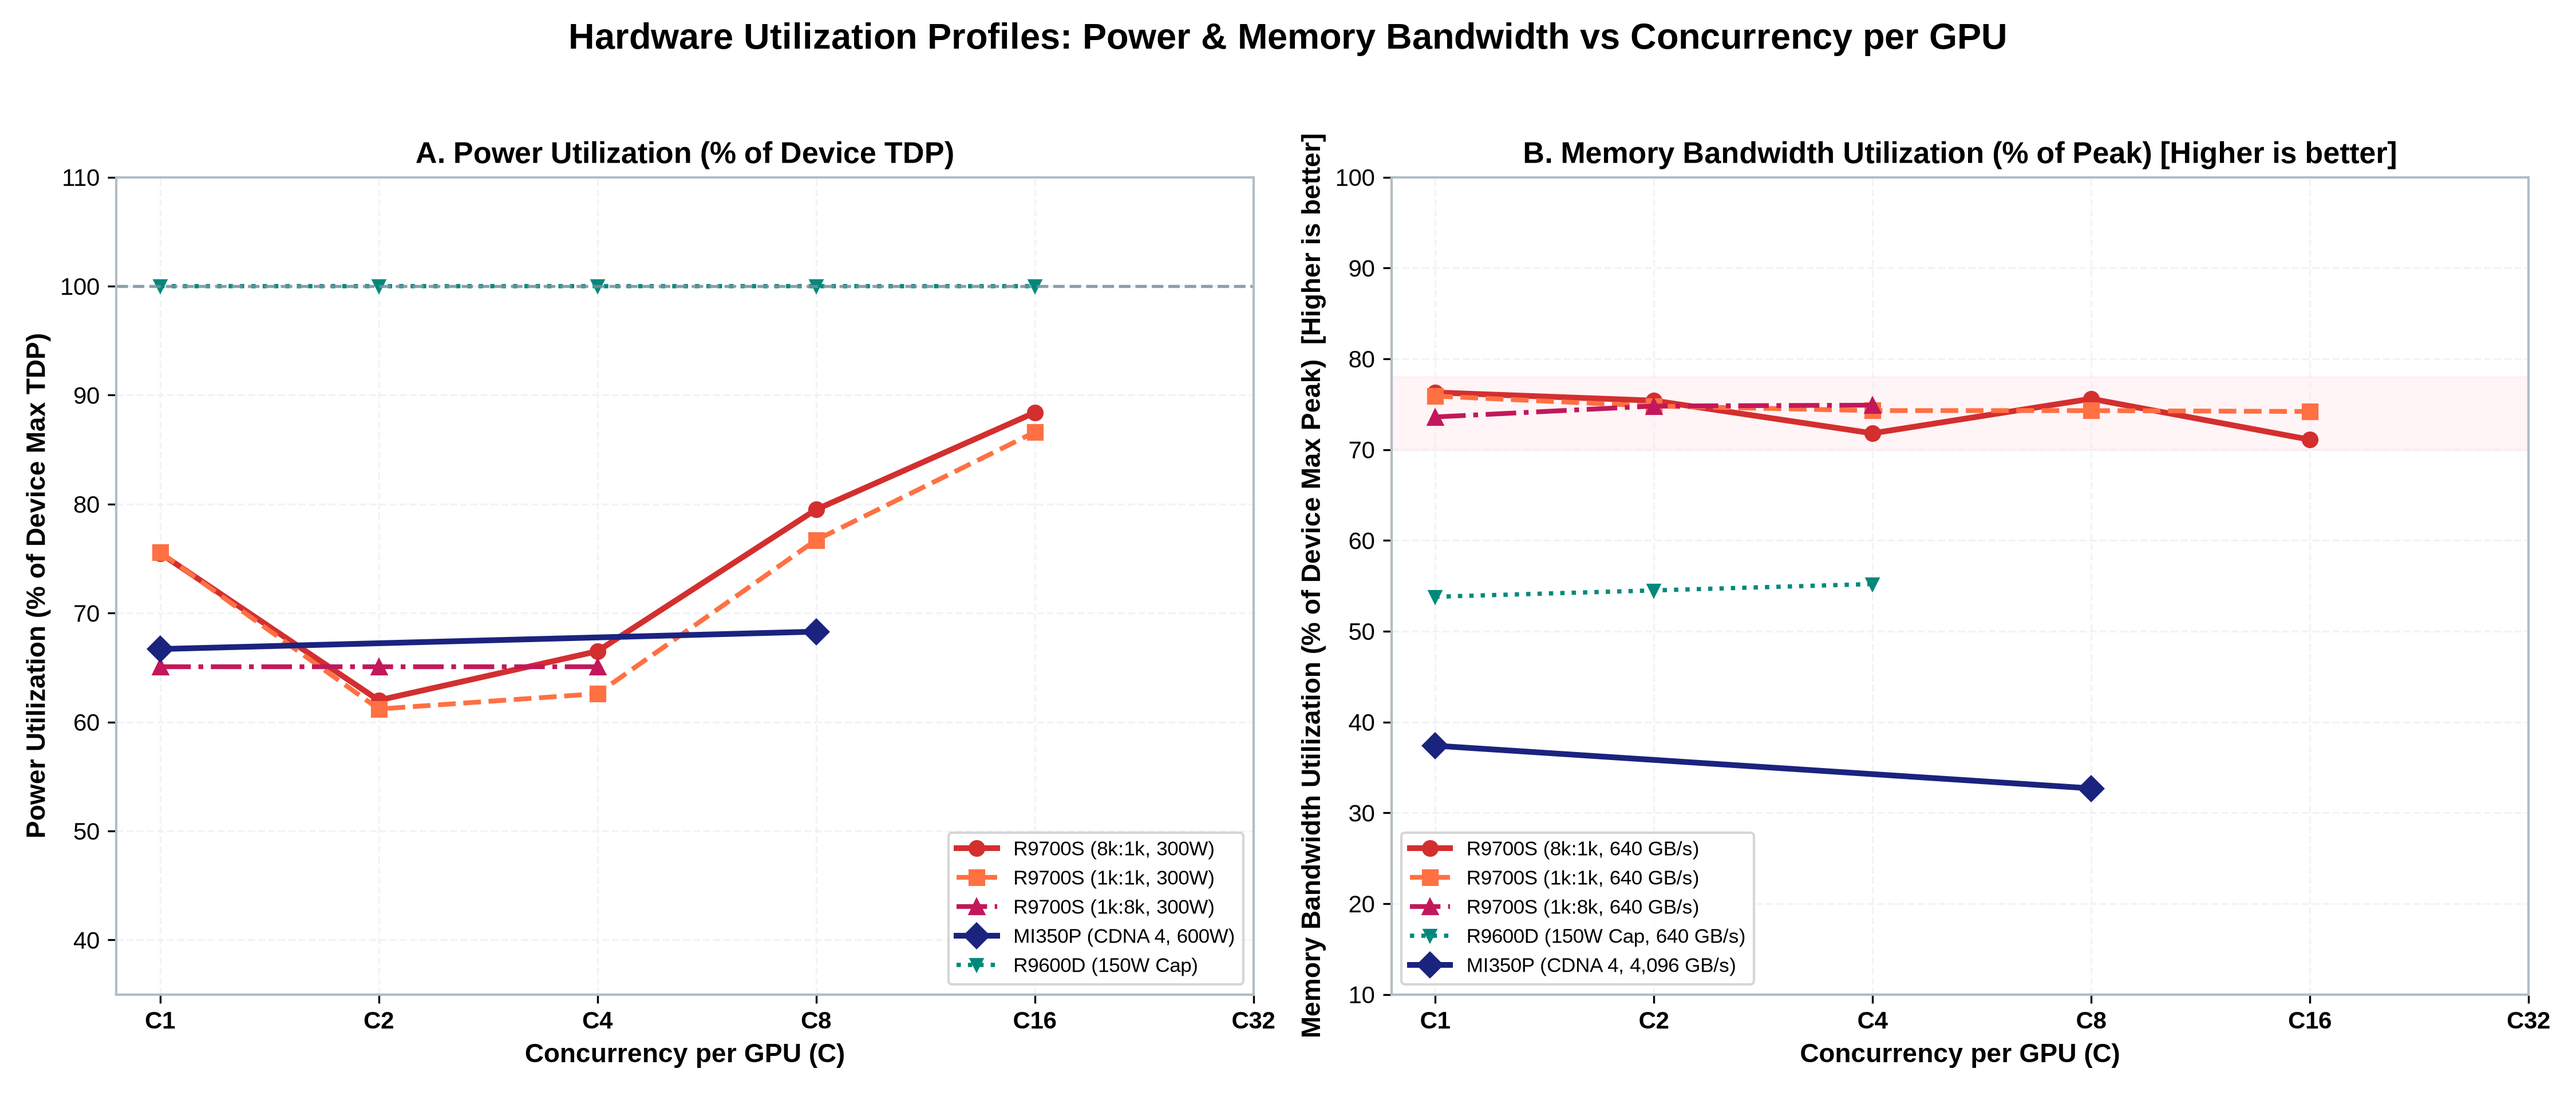
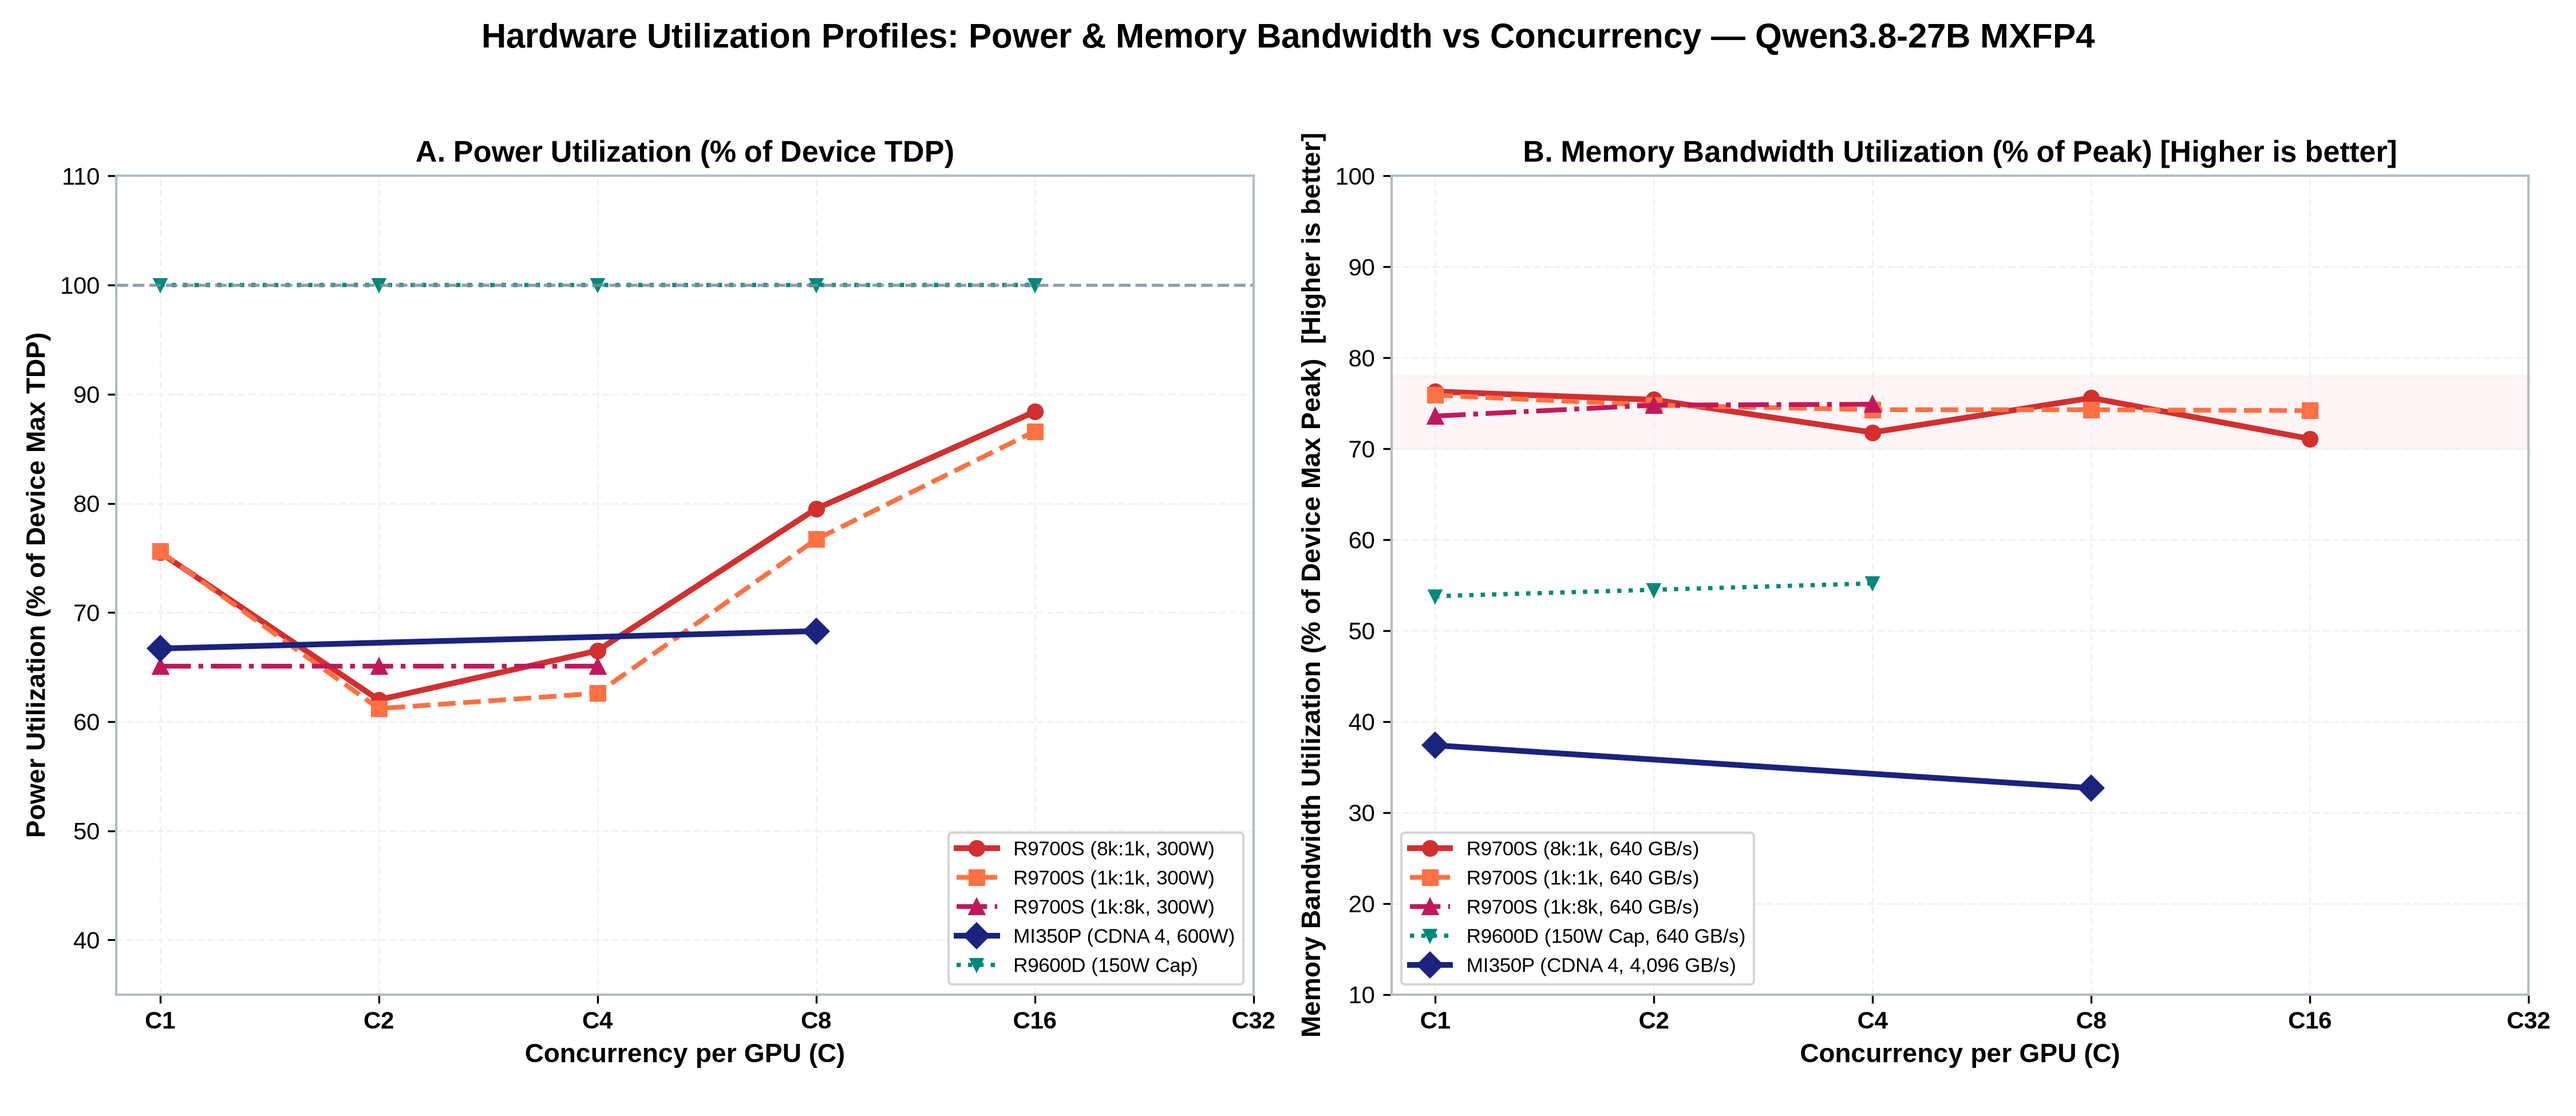
feat(plots): add Qwen3.8-27B MXFP4 model identifier to all TCO plot titles

diff --git a/scripts/generate_tco_plots.py b/scripts/generate_tco_plots.py
@@ -74,7 +74,7 @@ def plot_capex_and_tco():
     
     ax.set_xlabel("Server Architecture & Hardware Fill", fontsize=13, fontweight='bold', labelpad=12)
     ax.set_ylabel("Total Cost ($ in Thousands)", fontsize=13, fontweight='bold', labelpad=10)
-    ax.set_title("Server Fill Capex & 3-Year TCO Comparison (Qwen3.8-27B Serving)", fontsize=15, fontweight='bold', pad=15)
+    ax.set_title("Server Fill Capex & 3-Year TCO Comparison (Qwen3.8-27B MXFP4 Serving)", fontsize=14, fontweight='bold', pad=15)
     ax.set_xticks(x)
     ax.set_xticklabels(systems, fontsize=12, fontweight='bold')
     ax.set_ylim(0, 275)
@@ -149,7 +149,7 @@ def plot_cost_8k_1k():
     ax.set_xticklabels(["C1", "C2", "C4", "C8", "C16", "C32"], fontsize=12, fontweight='bold')
     ax.set_xlabel("Concurrency per GPU (C)", fontsize=13, fontweight='bold', labelpad=8)
     ax.set_ylabel("Serving Cost ($ / Million Output Tokens)  [Lower is better]", fontsize=12.5, fontweight='bold', labelpad=8)
-    ax.set_title("Serving Cost vs Concurrency: Long Context (8,192 In / 1,024 Out)", fontsize=15, fontweight='bold', pad=15)
+    ax.set_title("Serving Cost vs Concurrency: Long Context (8,192 In / 1,024 Out) — Qwen3.8-27B MXFP4", fontsize=13.5, fontweight='bold', pad=15)
     ax.set_ylim(0, 8.2)
     ax.set_xlim(0.8, 36)
     ax.grid(True, which='both', linestyle='--', alpha=0.7)
@@ -208,7 +208,7 @@ def plot_cost_1k_1k():
     ax.set_xticklabels(["C1", "C2", "C4", "C8", "C16", "C32"], fontsize=12, fontweight='bold')
     ax.set_xlabel("Concurrency per GPU (C)", fontsize=13, fontweight='bold', labelpad=8)
     ax.set_ylabel("Serving Cost ($ / Million Output Tokens)  [Lower is better]", fontsize=12.5, fontweight='bold', labelpad=8)
-    ax.set_title("Serving Cost vs Concurrency: Standard Workload (1,024 In / 1,024 Out)", fontsize=15, fontweight='bold', pad=15)
+    ax.set_title("Serving Cost vs Concurrency: Standard Workload (1,024 In / 1,024 Out) — Qwen3.8-27B MXFP4", fontsize=13.5, fontweight='bold', pad=15)
     ax.set_ylim(0, 4.2)
     ax.set_xlim(0.8, 36)
     ax.grid(True, which='both', linestyle='--', alpha=0.7)
@@ -273,7 +273,7 @@ def plot_cost_1k_8k():
     ax.set_xticklabels(["C1", "C2", "C4", "C8", "C16", "C32"], fontsize=12, fontweight='bold')
     ax.set_xlabel("Concurrency per GPU (C)", fontsize=13, fontweight='bold', labelpad=8)
     ax.set_ylabel("Serving Cost ($ / Million Output Tokens)  [Lower is better]", fontsize=12.5, fontweight='bold', labelpad=8)
-    ax.set_title("Serving Cost vs Concurrency: Deep Code Generation (1,024 In / 8,192 Out)", fontsize=15, fontweight='bold', pad=15)
+    ax.set_title("Serving Cost vs Concurrency: Deep Code Generation (1,024 In / 8,192 Out) — Qwen3.8-27B MXFP4", fontsize=13.5, fontweight='bold', pad=15)
     ax.set_ylim(0, 6.2)
     ax.set_xlim(0.8, 36)
     ax.grid(True, which='both', linestyle='--', alpha=0.7)
@@ -366,7 +366,7 @@ def plot_throughput():
     ax3.grid(True, which='both', linestyle='--', alpha=0.7)
     ax3.legend(loc='upper left', frameon=True, fontsize=8.0)
     
-    fig.suptitle("Full Server Aggregate Throughput Scaling Across Workload Shapes (Higher is better)", fontsize=15, fontweight='bold', y=0.98)
+    fig.suptitle("Full Server Aggregate Throughput Scaling Across Workload Shapes — Qwen3.8-27B MXFP4 (Higher is better)", fontsize=14.5, fontweight='bold', y=0.98)
     plt.tight_layout(rect=[0, 0.02, 1, 0.95])
     output_path = os.path.join(OUTPUT_DIR, "04_aggregate_throughput.png")
     plt.savefig(output_path, dpi=300)
@@ -536,7 +536,7 @@ def plot_power_utilization():
     ax.set_xticklabels(["C1", "C2", "C4", "C8", "C16", "C32"], fontsize=12, fontweight='bold')
     ax.set_xlabel("Concurrency per GPU (C)", fontsize=13, fontweight='bold', labelpad=8)
     ax.set_ylabel("Power Utilization (% of Device Max TDP)", fontsize=12.5, fontweight='bold', labelpad=8)
-    ax.set_title("Power Utilization vs Concurrency per GPU (% of Device Max TDP)", fontsize=15, fontweight='bold', pad=15)
+    ax.set_title("Power Utilization vs Concurrency per GPU (% of Device Max TDP) — Qwen3.8-27B MXFP4", fontsize=13.5, fontweight='bold', pad=15)
     ax.set_ylim(35, 110)
     ax.set_xlim(0.8, 36)
     ax.grid(True, which='both', linestyle='--', alpha=0.7)
@@ -604,7 +604,7 @@ def plot_memory_bandwidth_utilization():
     ax.set_xticklabels(["C1", "C2", "C4", "C8", "C16", "C32"], fontsize=12, fontweight='bold')
     ax.set_xlabel("Concurrency per GPU (C)", fontsize=13, fontweight='bold', labelpad=8)
     ax.set_ylabel("Memory Bandwidth Utilization (% of Device Max Peak)  [Higher is better]", fontsize=12.0, fontweight='bold', labelpad=8)
-    ax.set_title("Memory Bandwidth Utilization vs Concurrency per GPU (% of Device Max)", fontsize=15, fontweight='bold', pad=15)
+    ax.set_title("Memory Bandwidth Utilization vs Concurrency per GPU (% of Peak) — Qwen3.8-27B MXFP4", fontsize=13.5, fontweight='bold', pad=15)
     ax.set_ylim(10, 100)
     ax.set_xlim(0.8, 36)
     ax.grid(True, which='both', linestyle='--', alpha=0.7)
@@ -674,7 +674,7 @@ def plot_hardware_utilization_dashboard():
     ax2.grid(True, which='both', linestyle='--', alpha=0.7)
     ax2.legend(loc='lower left', frameon=True, fontsize=8.5)
     
-    fig.suptitle("Hardware Utilization Profiles: Power & Memory Bandwidth vs Concurrency per GPU", fontsize=15, fontweight='bold', y=0.98)
+    fig.suptitle("Hardware Utilization Profiles: Power & Memory Bandwidth vs Concurrency — Qwen3.8-27B MXFP4", fontsize=14.5, fontweight='bold', y=0.98)
     plt.tight_layout(rect=[0, 0.02, 1, 0.95])
     output_path = os.path.join(OUTPUT_DIR, "08_power_and_bandwidth_utilization.png")
     plt.savefig(output_path, dpi=300)
@@ -736,7 +736,7 @@ def plot_ttft_latency():
 
     ax.set_xlabel("Concurrency per GPU (C)", fontsize=13, fontweight="bold", labelpad=8)
     ax.set_ylabel("Time-to-First-Token (TTFT p50 Latency)  [Lower is better]", fontsize=12.5, fontweight="bold", labelpad=8)
-    ax.set_title("Time-to-First-Token (TTFT p50) Latency vs Concurrency per GPU [Lower is better]", fontsize=15, fontweight="bold", pad=15)
+    ax.set_title("Time-to-First-Token (TTFT p50) Latency vs Concurrency — Qwen3.8-27B MXFP4 [Lower is better]", fontsize=13.5, fontweight="bold", pad=15)
     ax.set_ylim(80, 120000)
     ax.set_xlim(0.8, 36)
     ax.grid(True, which="both", linestyle="--", alpha=0.6)
@@ -849,8 +849,8 @@ def plot_slo_qualified_goodput():
     ax2.grid(True, which='both', linestyle='--', alpha=0.7)
     ax2.legend(loc='upper right', frameon=True, fontsize=8.5)
     
-    fig.suptitle("SLO-Qualified Interactive Goodput vs High-Concurrency Batch Saturation (1,024 In / 1,024 Out)", 
-                 fontsize=15, fontweight='bold', y=0.98)
+    fig.suptitle("SLO-Qualified Interactive Goodput vs High-Concurrency Batch Saturation — Qwen3.8-27B MXFP4 (1k:1k)", 
+                 fontsize=14.5, fontweight='bold', y=0.98)
     plt.tight_layout(rect=[0, 0.02, 1, 0.95])
     output_path = os.path.join(OUTPUT_DIR, "10_slo_qualified_goodput.png")
     plt.savefig(output_path, dpi=300)
